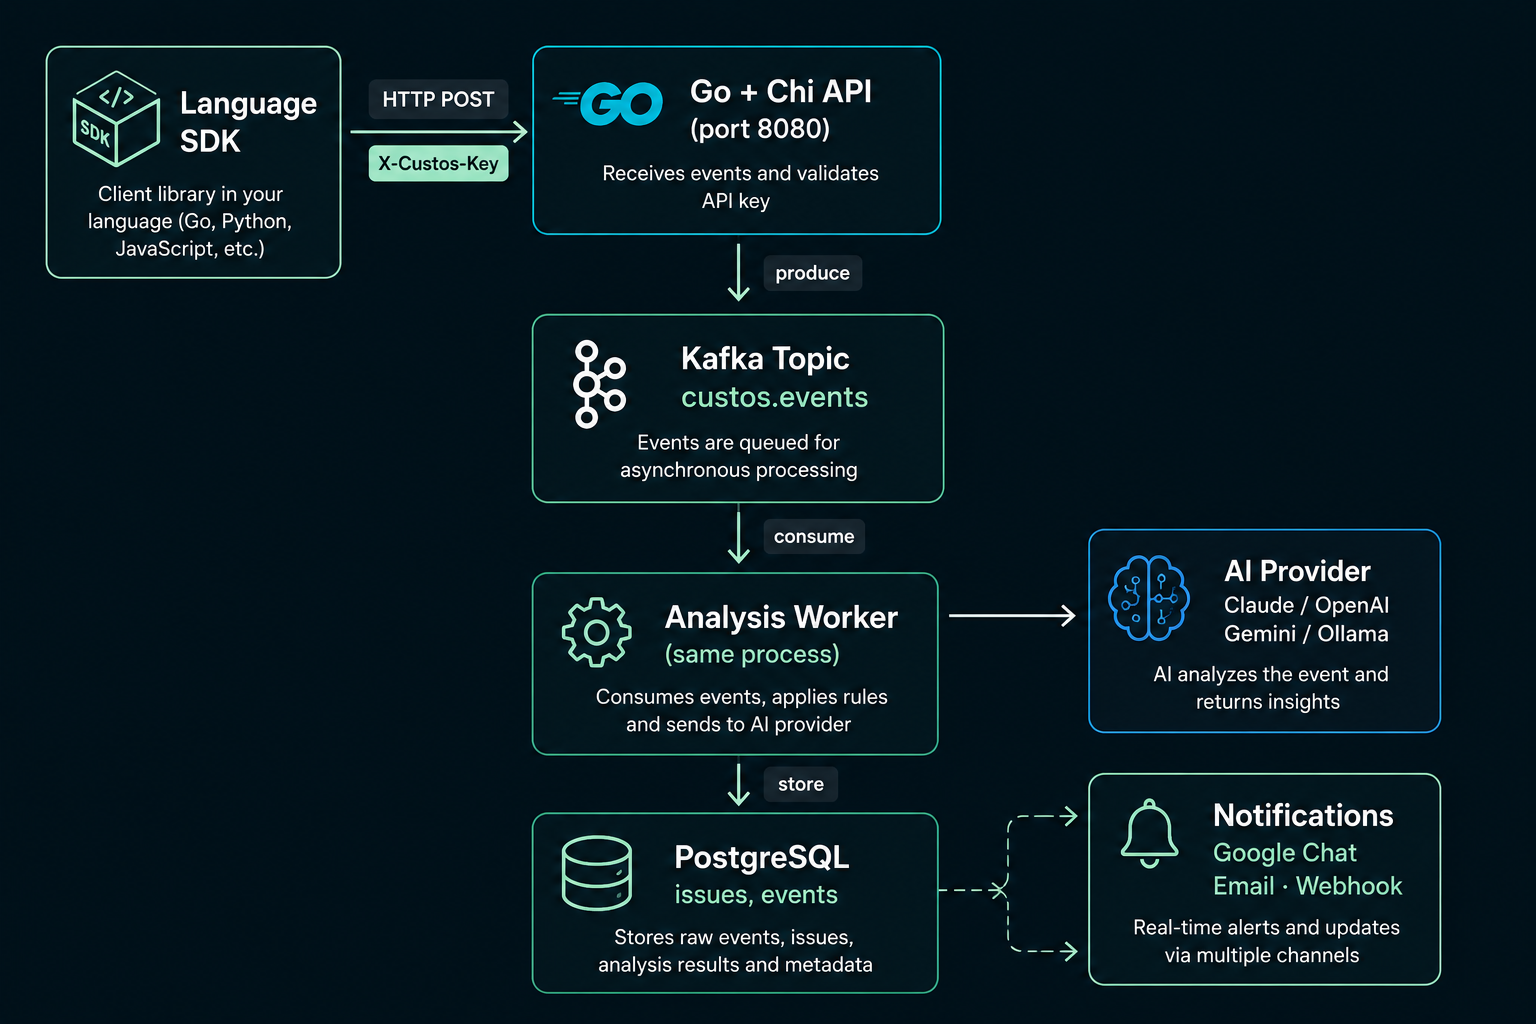
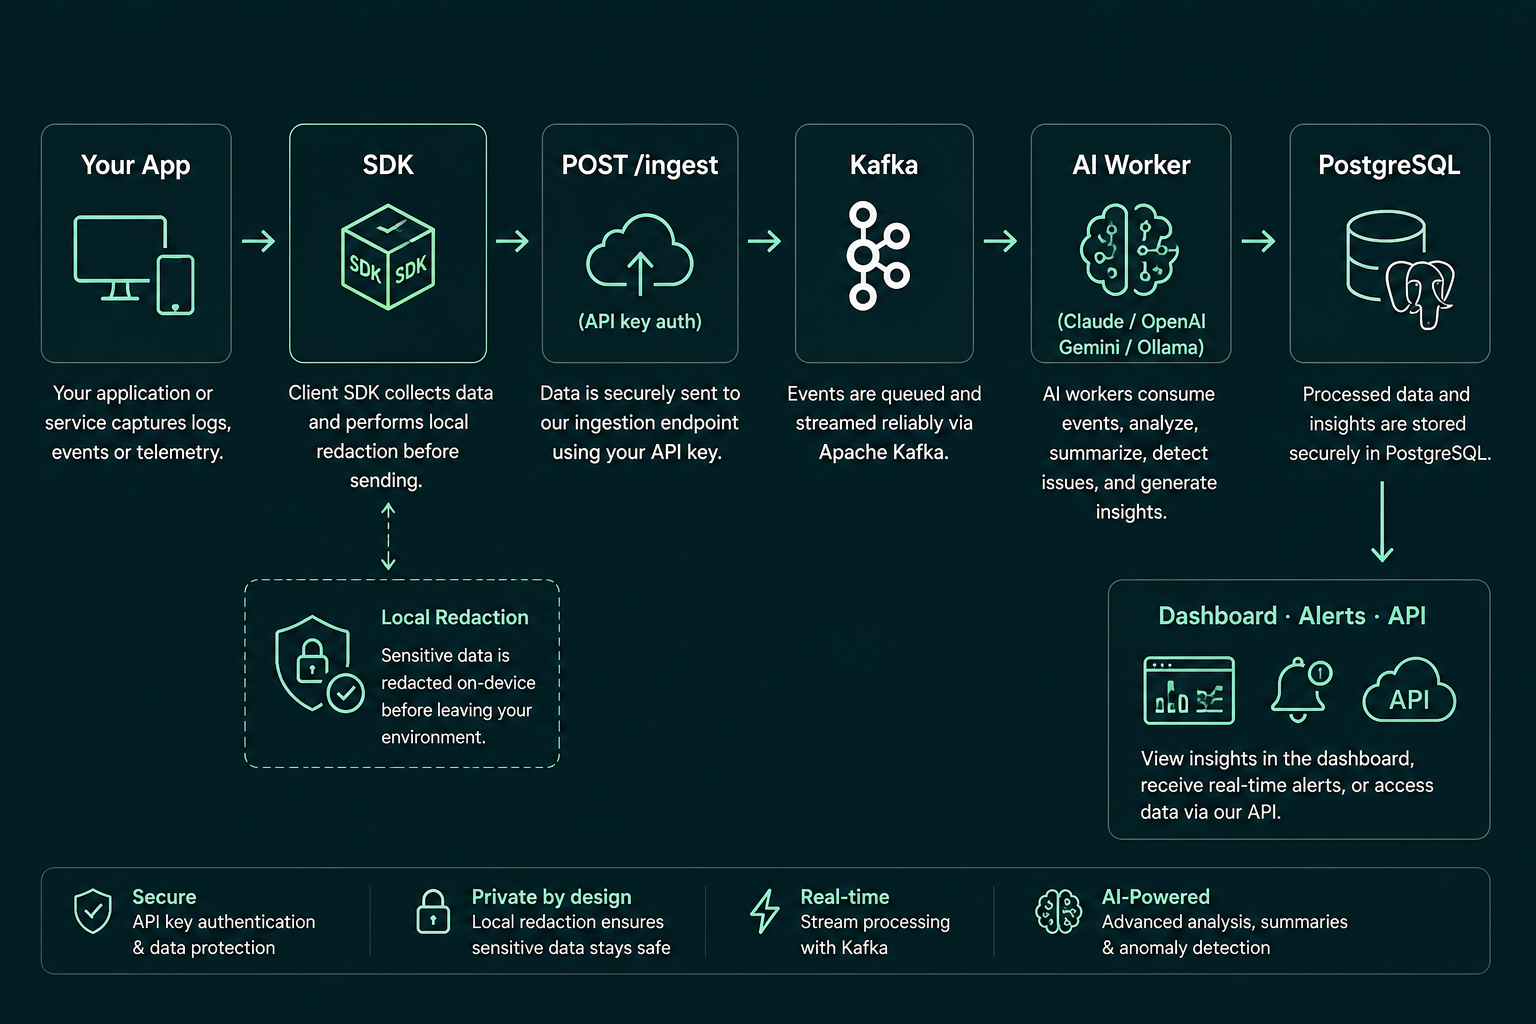
docs: restore how-it-works image and add system architecture diagram

diff --git a/README.md b/README.md
@@ -227,31 +227,7 @@ Browse and try every endpoint interactively at **http://localhost:8081** (Swagge
 
 ## Architecture
 
-```
-┌─────────────┐    HTTP POST     ┌──────────────────┐
-│  Language   │ ──────────────►  │   Go + Chi API   │
-│    SDK      │  X-Custos-Key    │   (port 8080)    │
-└─────────────┘                  └────────┬─────────┘
-                                          │ produce
-                                          ▼
-                                 ┌──────────────────┐
-                                 │  Kafka Topic     │
-                                 │  custos.events   │
-                                 └────────┬─────────┘
-                                          │ consume
-                                          ▼
-                                 ┌──────────────────┐    ┌──────────────────┐
-                                 │  Analysis Worker │───►│   AI Provider    │
-                                 │  (same process)  │    │  Claude / OpenAI │
-                                 └────────┬─────────┘    │  Gemini / Ollama │
-                                          │ store         └──────────────────┘
-                                          ▼
-                                 ┌──────────────────┐    ┌──────────────────┐
-                                 │   PostgreSQL     │    │  Notifications   │
-                                 │  issues, events  │    │  Google Chat     │
-                                 └──────────────────┘    │  Email · Webhook │
-                                                         └──────────────────┘
-```
+![System Architecture](docs/assets/system-architecture.png)
 
 ### Package dependency rule
 